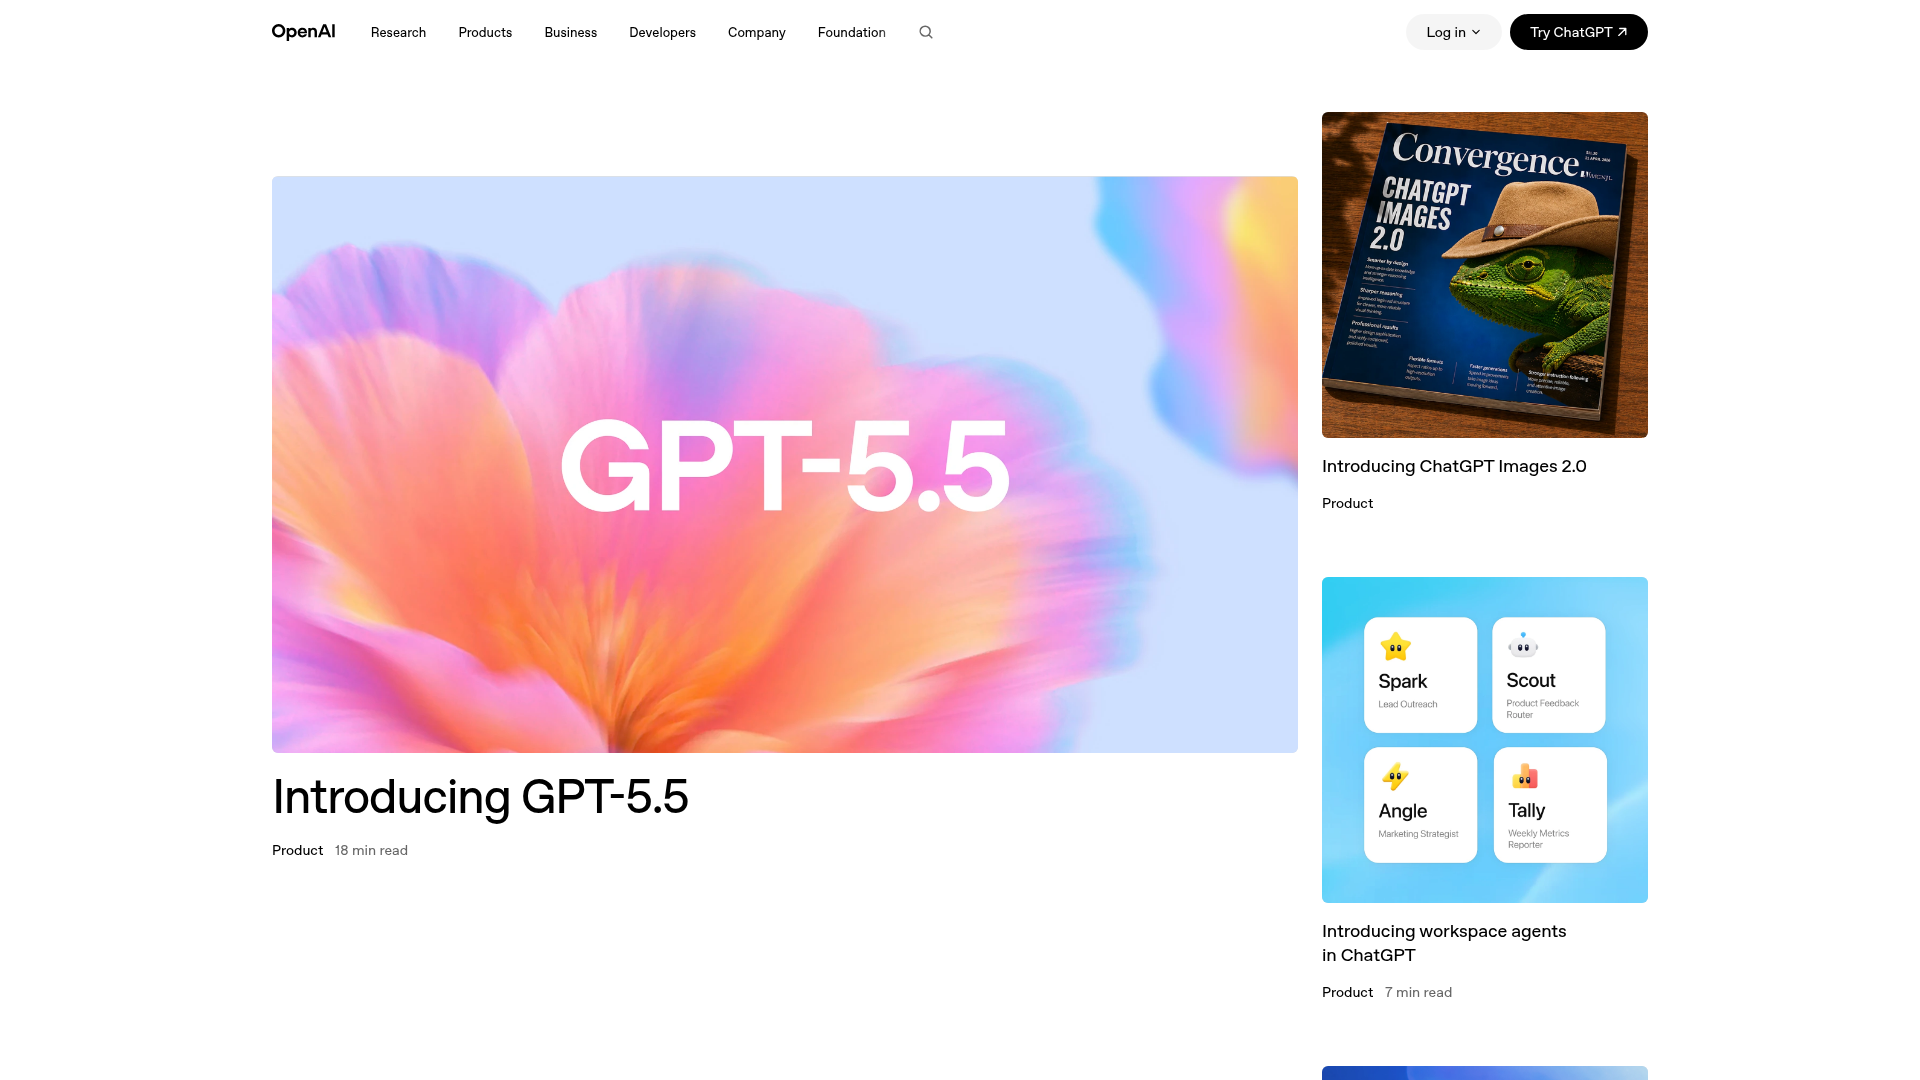
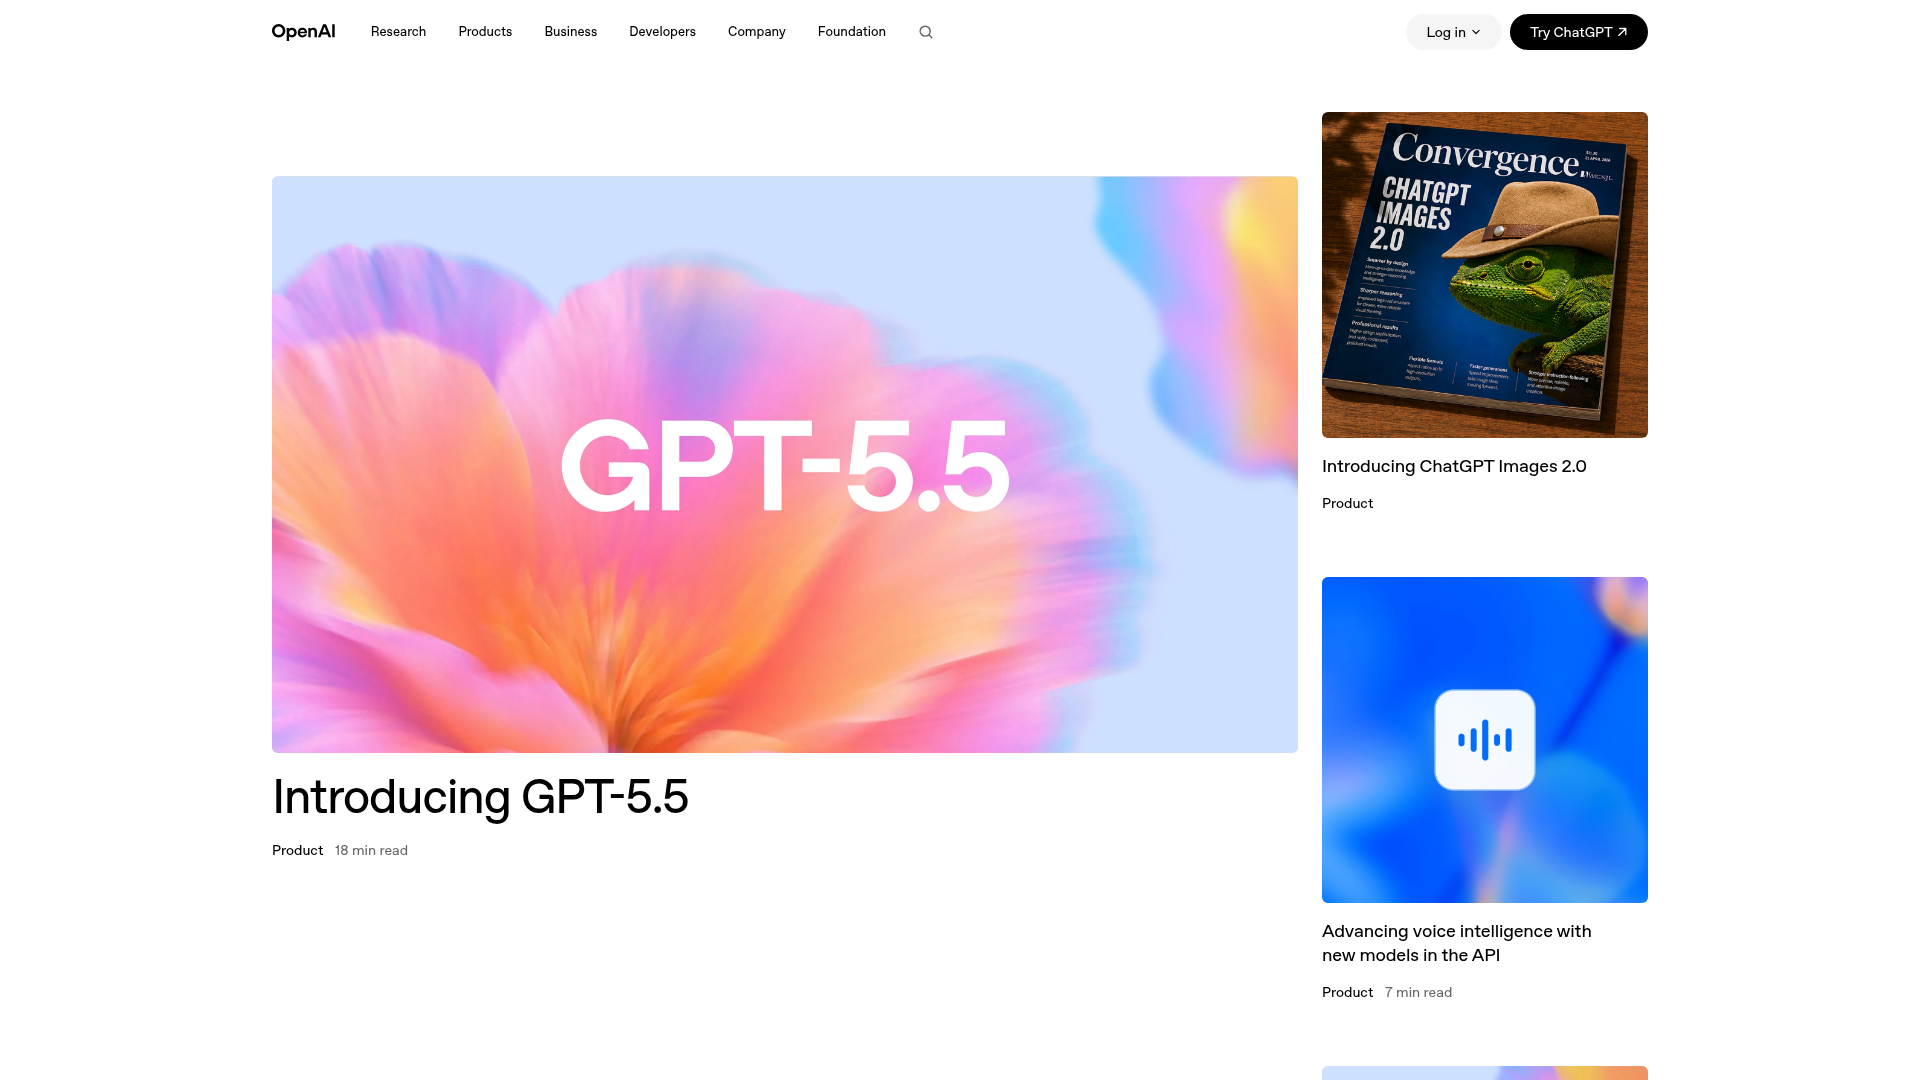
Simplify the website footer to match a cleaner design
Update footer component by removing unnecessary elements, adjusting column titles and links, and removing the showBrandBand prop.

Replit-Commit-Author: Agent
Replit-Commit-Session-Id: 49f345ff-bccf-4675-8572-2a824fe94904
Replit-Commit-Checkpoint-Type: full_checkpoint
Replit-Commit-Event-Id: f505c992-26fc-48b1-9bb4-20eea1d9be3d
Replit-Commit-Screenshot-Url: https://storage.googleapis.com/screenshot-production-us-central1/537eef43-bbf1-4a96-b9b8-955509b4a5d6/49f345ff-bccf-4675-8572-2a824fe94904/u6ujsQE
Replit-Helium-Checkpoint-Created: true

Changed region(s): [[0.6875, 0.5194, 0.875, 0.8861], [0.6875, 0.9778, 0.875, 1.0]]

diff --git a/src/components/footer.tsx b/src/components/footer.tsx
@@ -1,8 +1,8 @@
 'use client';
 
-import Image from "next/image";
 import Link from "next/link";
-import { Twitter, Linkedin, Youtube, ArrowUpRight, ArrowRight } from "lucide-react";
+import Image from "next/image";
+import { Twitter, Linkedin, Youtube, ArrowUpRight } from "lucide-react";
 
 const footerData = {
   columns: [
@@ -14,15 +14,10 @@ const footerData = {
       ],
     },
     {
-      title: "Enterprise Software",
+      title: "Enterprise",
       links: [
         { name: "Logistics", href: "https://logistics.olyxee.com/login", external: true },
-      ],
-    },
-    {
-      title: "Enterprise Hardware",
-      links: [
-        { name: "Olyxee Robotics", href: "/enterprise/robotics" },
+        { name: "Robotics", href: "/enterprise/robotics" },
       ],
     },
     {
@@ -30,7 +25,6 @@ const footerData = {
       links: [
         { name: "About", href: "/about" },
         { name: "Careers", href: "/careers" },
-        { name: "Brand Guidelines", href: "/brand" },
         { name: "Contact", href: "/contact" },
       ],
     },
@@ -38,13 +32,7 @@ const footerData = {
       title: "Resources",
       links: [
         { name: "Documentation", href: "/docs" },
-      ],
-    },
-    {
-      title: "Trust",
-      links: [
-        { name: "Privacy Policy", href: "/privacy" },
-        { name: "Terms of Use", href: "/terms" },
+        { name: "Brand", href: "/brand" },
       ],
     },
   ],
@@ -59,7 +47,6 @@ type FooterVariant = "dark" | "light";
 
 interface FooterProps {
   variant?: FooterVariant;
-  showBrandBand?: boolean;
 }
 
 export default function Footer({ variant = "light" }: FooterProps) {
@@ -68,172 +55,87 @@ export default function Footer({ variant = "light" }: FooterProps) {
   const styles = isLight
     ? {
         wrapper: "bg-white text-neutral-900 border-t border-neutral-200",
-        eyebrow: "text-neutral-400",
-        headline: "text-neutral-900",
-        headlineMuted: "text-neutral-300",
-        muted: "text-neutral-500",
-        columnTitle: "text-neutral-400",
-        link: "text-neutral-700 hover:text-neutral-900",
+        columnTitle: "text-neutral-900",
+        link: "text-neutral-500 hover:text-neutral-900",
         divider: "border-neutral-200",
         copyright: "text-neutral-500",
-        social:
-          "text-neutral-500 hover:text-neutral-900 ring-1 ring-neutral-200 hover:ring-neutral-300 bg-white",
-        ctaPill:
-          "text-neutral-900 ring-1 ring-neutral-200 hover:ring-neutral-900 bg-white",
-        ctaArrow:
-          "bg-neutral-900 text-white group-hover:bg-black",
-        hqDot: "bg-emerald-500",
-        hqText: "text-neutral-500",
-        wordmark: "text-neutral-900/[0.04]",
-        statusBg: "bg-neutral-50",
-        glowA: "rgba(99,102,241,0.0)",
-        glowB: "rgba(244,114,182,0.0)",
+        social: "text-neutral-500 hover:text-neutral-900",
       }
     : {
         wrapper: "bg-neutral-950 text-white",
-        eyebrow: "text-white/40",
-        headline: "text-white",
-        headlineMuted: "text-white/30",
-        muted: "text-white/55",
-        columnTitle: "text-white/40",
-        link: "text-white/65 hover:text-white",
+        columnTitle: "text-white",
+        link: "text-white/55 hover:text-white",
         divider: "border-white/10",
-        copyright: "text-white/45",
-        social:
-          "text-white/55 hover:text-white ring-1 ring-white/10 hover:ring-white/30 bg-white/[0.02]",
-        ctaPill:
-          "text-white ring-1 ring-white/15 hover:ring-white/40 bg-white/[0.04]",
-        ctaArrow:
-          "bg-white text-neutral-900 group-hover:bg-neutral-200",
-        hqDot: "bg-emerald-400",
-        hqText: "text-white/55",
-        wordmark: "text-white/[0.04]",
-        statusBg: "bg-white/[0.03]",
-        glowA: "rgba(99,102,241,0.18)",
-        glowB: "rgba(244,114,182,0.14)",
+        copyright: "text-white/55",
+        social: "text-white/55 hover:text-white",
       };
 
   return (
-    <footer className={`relative overflow-hidden ${styles.wrapper}`} aria-label="Site footer">
-      {/* Ambient glow (only meaningful in dark variant; transparent in light) */}
-      <div
-        aria-hidden
-        className="absolute -top-40 -left-40 w-[520px] h-[520px] rounded-full pointer-events-none"
-        style={{
-          background: `radial-gradient(circle, ${styles.glowA} 0%, rgba(0,0,0,0) 60%)`,
-          filter: "blur(60px)",
-        }}
-      />
-      <div
-        aria-hidden
-        className="absolute -bottom-40 -right-40 w-[520px] h-[520px] rounded-full pointer-events-none"
-        style={{
-          background: `radial-gradient(circle, ${styles.glowB} 0%, rgba(0,0,0,0) 60%)`,
-          filter: "blur(60px)",
-        }}
-      />
-
-      <div className="relative max-w-6xl mx-auto px-4 sm:px-8 lg:px-12">
-        {/* === Brand band === */}
-        <div className="pt-16 sm:pt-24 pb-12 sm:pb-16">
-          <div className="grid grid-cols-1 lg:grid-cols-[1.4fr_1fr] gap-10 lg:gap-16 items-end">
-            <div>
-              <p className={`text-[10px] font-mono uppercase tracking-[0.28em] ${styles.eyebrow} mb-6 sm:mb-8 flex items-center gap-3`}>
-                <span className="inline-block w-6 h-px bg-current opacity-40" aria-hidden />
-                Olyxee
-              </p>
-              <h2 className={`font-serif text-3xl sm:text-5xl lg:text-[3.75rem] leading-[1.04] tracking-tight ${styles.headline}`}>
-                Building the infrastructure for AI that{" "}
-                <em className={`not-italic ${styles.headlineMuted}`}>operates</em>.
-              </h2>
-            </div>
-            <div className="lg:pb-2 flex flex-col gap-5 lg:items-end">
-              <p className={`text-sm ${styles.muted} font-light max-w-xs leading-relaxed`}>
-                Have a workflow you want AI to actually run? Let&apos;s talk.
-              </p>
-              <Link
-                href="/contact"
-                className={`group inline-flex items-center gap-3 pl-5 pr-2 py-2 rounded-full text-sm font-medium transition-all ${styles.ctaPill}`}
-              >
-                Get in touch
-                <span className={`w-8 h-8 rounded-full flex items-center justify-center transition-colors ${styles.ctaArrow}`}>
-                  <ArrowRight className="w-4 h-4 group-hover:translate-x-0.5 transition-transform" strokeWidth={1.75} />
-                </span>
-              </Link>
-            </div>
-          </div>
-        </div>
-
+    <footer className={styles.wrapper} aria-label="Site footer">
+      <div className="max-w-7xl mx-auto px-4 sm:px-8 lg:px-12">
         {/* === Link columns === */}
-        <div className={`pt-12 sm:pt-16 border-t ${styles.divider}`}>
-          <div className="grid grid-cols-2 md:grid-cols-3 lg:grid-cols-6 gap-x-6 sm:gap-x-8 gap-y-12">
-            {footerData.columns.map((column: any) => {
-              const renderLink = (link: any) => {
-                const content = (
-                  <span className="inline-flex items-center gap-2">
-                    {link.logo && (
-                      <Image
-                        src={link.logo}
-                        alt=""
-                        width={16}
-                        height={16}
-                        className="rounded-sm"
-                      />
-                    )}
-                    <span>{link.name}</span>
-                    {link.external && (
-                      <ArrowUpRight className="w-3 h-3 opacity-60" aria-hidden />
-                    )}
-                  </span>
-                );
-                return link.external ? (
-                  <a
-                    href={link.href}
-                    target="_blank"
-                    rel="noopener noreferrer"
-                    className={`text-sm ${styles.link} transition-colors duration-300 font-light`}
-                  >
-                    {content}
-                  </a>
-                ) : (
-                  <Link
-                    href={link.href}
-                    className={`text-sm ${styles.link} transition-colors duration-300 font-light`}
-                  >
-                    {content}
-                  </Link>
-                );
-              };
-
-              return (
-                <div key={column.title}>
-                  <h3 className={`text-[10px] font-mono ${styles.columnTitle} uppercase tracking-[0.22em] mb-5`}>
-                    {column.title}
-                  </h3>
-                  <ul className="space-y-3.5">
-                    {column.links.map((link: any) => (
-                      <li key={link.name}>{renderLink(link)}</li>
-                    ))}
-                  </ul>
-                </div>
-              );
-            })}
+        <div className="pt-16 sm:pt-20 pb-12 sm:pb-16">
+          <div className="grid grid-cols-2 md:grid-cols-4 gap-x-6 sm:gap-x-8 gap-y-12">
+            {footerData.columns.map((column) => (
+              <div key={column.title}>
+                <h3 className={`text-sm font-medium ${styles.columnTitle} mb-5`}>
+                  {column.title}
+                </h3>
+                <ul className="space-y-3">
+                  {column.links.map((link) => {
+                    const content = (
+                      <span className="inline-flex items-center gap-1.5">
+                        {link.name}
+                        {"external" in link && link.external && (
+                          <ArrowUpRight className="w-3 h-3 opacity-60" aria-hidden />
+                        )}
+                      </span>
+                    );
+                    return (
+                      <li key={link.name}>
+                        {"external" in link && link.external ? (
+                          <a
+                            href={link.href}
+                            target="_blank"
+                            rel="noopener noreferrer"
+                            className={`text-sm ${styles.link} transition-colors`}
+                          >
+                            {content}
+                          </a>
+                        ) : (
+                          <Link
+                            href={link.href}
+                            className={`text-sm ${styles.link} transition-colors`}
+                          >
+                            {content}
+                          </Link>
+                        )}
+                      </li>
+                    );
+                  })}
+                </ul>
+              </div>
+            ))}
           </div>
         </div>
 
-        {/* === HQ status row === */}
-        <div className={`mt-14 sm:mt-20 pt-8 border-t ${styles.divider} flex flex-wrap items-center justify-between gap-y-6 gap-x-10`}>
-          <div className="flex flex-wrap items-center gap-x-8 gap-y-3 text-[11px] font-mono uppercase tracking-[0.22em]">
-            <span className={`flex items-center gap-2.5 ${styles.hqText}`}>
-              <span className={`inline-block w-1.5 h-1.5 rounded-full animate-pulse ${styles.hqDot}`} aria-hidden />
-              All systems operational
-            </span>
-            <span className={`hidden sm:inline-block w-px h-3 ${isLight ? "bg-neutral-200" : "bg-white/15"}`} aria-hidden />
-            <span className={styles.hqText}>HQ · Johannesburg, ZA</span>
-            <span className={`hidden sm:inline-block w-px h-3 ${isLight ? "bg-neutral-200" : "bg-white/15"}`} aria-hidden />
-            <span className={styles.hqText}>Est. 2025</span>
+        {/* === Bottom bar === */}
+        <div className={`border-t ${styles.divider} py-6 sm:py-8 flex flex-col-reverse sm:flex-row items-center sm:justify-between gap-4`}>
+          <div className="flex flex-wrap items-center gap-x-6 gap-y-2 justify-center sm:justify-start">
+            <Link href="/" className="flex items-center gap-2">
+              <Image src="/Logo/Olyxee_Logo.png" alt="Olyxee" width={20} height={20} className="w-5 h-5" />
+              <span className={`text-sm ${styles.copyright}`}>
+                &copy; {new Date().getFullYear()} Olyxee
+              </span>
+            </Link>
+            <Link href="/privacy" className={`text-sm ${styles.link} transition-colors`}>
+              Privacy
+            </Link>
+            <Link href="/terms" className={`text-sm ${styles.link} transition-colors`}>
+              Terms
+            </Link>
           </div>
-          <div className="flex items-center gap-x-2">
+          <div className="flex items-center gap-4">
             {footerData.socials.map((social) => {
               const SocialIcon = social.icon;
               return (
@@ -243,45 +145,13 @@ export default function Footer({ variant = "light" }: FooterProps) {
                   target="_blank"
                   rel="noopener noreferrer"
                   aria-label={social.name}
-                  className={`w-9 h-9 flex items-center justify-center rounded-full transition-all duration-300 ${styles.social}`}
+                  className={`transition-colors ${styles.social}`}
                 >
                   <SocialIcon className="h-4 w-4" />
                 </a>
               );
             })}
           </div>
-        </div>
-
-        {/* === Oversized wordmark band === */}
-        <div className="relative pt-10 sm:pt-14 pb-6 sm:pb-8 overflow-hidden">
-          <p
-            aria-hidden
-            className={`font-serif italic leading-none tracking-[-0.04em] text-center select-none ${styles.wordmark}`}
-            style={{ fontSize: "clamp(5rem, 22vw, 18rem)" }}
-          >
-            Olyxee
-          </p>
-        </div>
-
-        {/* === Bottom bar === */}
-        <div className={`pt-6 pb-10 sm:pb-12 border-t ${styles.divider} flex flex-col-reverse items-center gap-y-5 sm:flex-row sm:justify-between`}>
-          <div className="flex flex-wrap items-center gap-x-5 gap-y-2 justify-center sm:justify-start">
-            <p className={`text-xs ${styles.copyright} font-light`}>
-              &copy; {new Date().getFullYear()} Olyxee, Inc. All rights reserved.
-            </p>
-            <Link href="/privacy" className={`text-xs font-light ${styles.link} transition-colors`}>
-              Privacy
-            </Link>
-            <Link href="/terms" className={`text-xs font-light ${styles.link} transition-colors`}>
-              Terms
-            </Link>
-            <Link href="/brand" className={`text-xs font-light ${styles.link} transition-colors`}>
-              Brand
-            </Link>
-          </div>
-          <p className={`text-[10px] font-mono uppercase tracking-[0.28em] ${styles.copyright}`}>
-            Made in Johannesburg
-          </p>
         </div>
       </div>
     </footer>

diff --git a/src/pages/research.tsx b/src/pages/research.tsx
@@ -153,7 +153,7 @@ const Research: FC = () => {
         </div>
       </section>
 
-      <Footer showBrandBand={false} />
+      <Footer />
     </div>
   );
 };
